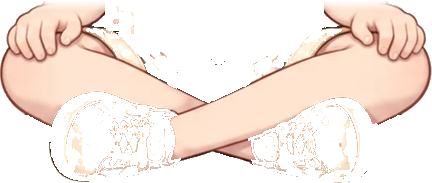
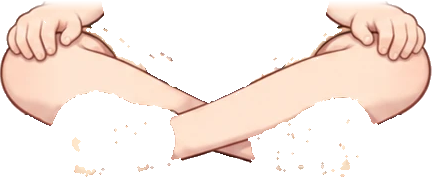
퀴즈나라: 양반다리 정면 여자 원화 연결, 남녀 아래팔 원화
- 여자 정면도 원화 층을 쓴다(다리·손·기본 운동화, SEATED_ART.f).
- 기준 그림의 기본 반바지(데님·크림 바짓단·꽃무늬)를 피부 아래 층으로
  깐다(먼 다리 그림, 색 입히지 않음, 기본 반바지를 입었을 때만).
- 손 그림에 소매 끝부터 아래팔을 포함하고 소매 아래층에 둔다. 위팔은
  서 있을 때 각도를 유지해 소매와 셔츠 사이 틈을 없앴다.
- 잘라내기: 피부 판정 강화(크림 제외), 점 제거, 셔츠 밑단 선 지정.
- AGENTS.md: 상품별 원화 요청은 한 번에 묶어서 드린다.

Claude-Session: https://claude.ai/code/session_01TorvBRE4tH5a5MfFk5YraQ

diff --git a/퀴즈나라/avatar-foundation-skin.js b/퀴즈나라/avatar-foundation-skin.js
@@ -161,9 +161,16 @@
    // Drawn seated legs (pose.seatArt): one picture of both legs in the near
    // leg; the far leg's painting and the drawn shapes are hidden.
    if(!drawn){const A=pose.seatArt.legs,image=part.painting;part.paintFrame.removeAttribute('clip-path');part.contour.style.visibility='hidden';part.shade.style.display='none';
-    if(!i){part.paintFrame.style.display='none';return;}
+    // The far leg shows the reference's own bottom (untinted) under the
+    // skin when the matching basic bottom is worn: the skin picture leaves
+    // its denim, cuffs and prints out.
+    if(!i){const B=pose.seatArt.bottoms[(r.svg.dataset.foundationGarments||'').split('|').find(id=>id.startsWith('bottom:'))];
+     if(!B){part.paintFrame.style.display='none';return;}
+     if(part.paintFrame.style.display){part.paintFrame.style.removeProperty('display');if(!part.paintFrame.getAttribute('style'))part.paintFrame.removeAttribute('style');}
+     if(image.hasAttribute('filter'))image.removeAttribute('filter');if(image.paintedArt!==B){image.setAttribute('href',B.url);image.paintedArt=B;}for(const[k,val]of Object.entries({x:B.rect[0],y:B.rect[1],width:B.rect[2],height:B.rect[3]}))if(image.getAttribute(k)!==String(val))image.setAttribute(k,val);return;}
     if(part.paintFrame.style.display){part.paintFrame.style.removeProperty('display');if(!part.paintFrame.getAttribute('style'))part.paintFrame.removeAttribute('style');}
     if(image.paintedArt!==A){image.setAttribute('href',A.url);image.paintedArt=A;}for(const[k,val]of Object.entries({x:A.rect[0],y:A.rect[1],width:A.rect[2],height:A.rect[3]}))if(image.getAttribute(k)!==String(val))image.setAttribute(k,val);return;}
+   if(!part.painting.hasAttribute('filter'))part.painting.setAttribute('filter',tint);
    // The pooled painting is compared by reference (as the forearm's below):
    // reading the data-URL href back every frame copied the whole string.
    const image=part.painting;if(image.paintedArt!==drawn){if(image.getAttribute('href')!==drawn.url)image.setAttribute('href',drawn.url);image.paintedArt=drawn;}for(const[k,val]of Object.entries({x:points[0][0]+drawn.x,y:points[0][1]+drawn.y,width:drawn.w,height:drawn.h}))if(image.getAttribute(k)!==String(val))image.setAttribute(k,val);
@@ -182,8 +189,12 @@
    const drawnLeg=type==='leg'&&Boolean(p.cuff);if(drawnLeg)part.paintFrame.style.display='none';else if(part.paintFrame.style.display){part.paintFrame.style.removeProperty('display');if(!part.paintFrame.getAttribute('style'))part.paintFrame.removeAttribute('style');}
    part.contour.style.visibility=drawnLeg?'':'hidden';
    if(type==='leg')for(const e of [part.contour,part.foot])if(e){if(drawnLeg){if(!e.dataset.baseFill)e.dataset.baseFill=e.getAttribute('fill');const c=paintedSkin(r.svg.dataset.foundationSkin);if(e.getAttribute('fill')!==c)e.setAttribute('fill',c);}else if(e.dataset.baseFill){e.setAttribute('fill',e.dataset.baseFill);delete e.dataset.baseFill;}}part.shade.style.display=type==='leg'&&pose.floor?'':'none';if(type==='arm'){part.hand.style.display='none';forearmOverlay(r,part,p,i,[def.radii[1]*def.k,def.radii[2]*def.k],(def.end-def.joints[2][1])*def.k,def,points,tint);openHand(r,part,p,i,tint);
+    if(!pose.seatArt&&part.forearmArt&&part.forearmArt.previousSibling!==part.forearm)part.parent.insertBefore(part.forearmArt,part.forearm.nextSibling);
     // Drawn seated hands (pose.seatArt) rest on the knees over the arms.
-    if(pose.seatArt){const A=pose.seatArt.hands[i],e=part.forearmArt;e.style.display='';if(e.paintedArt!==A){e.setAttribute('href',A.url);e.paintedArt=A;}for(const[k,val]of Object.entries({x:A.rect[0],y:A.rect[1],width:A.rect[2],height:A.rect[3]}))if(e.getAttribute(k)!==String(val))e.setAttribute(k,val);}}
+    // The piece holds the forearm from under the sleeve, so it lies below
+    // the sleeve (just over the arm's painting); elsewhere the forearm
+    // painting goes back over everything after the forearm copy.
+    if(pose.seatArt){const A=pose.seatArt.hands[i],e=part.forearmArt;if(e.previousSibling!==part.paintFrame)part.parent.insertBefore(e,part.paintFrame.nextSibling);e.style.display='';if(e.paintedArt!==A){e.setAttribute('href',A.url);e.paintedArt=A;}for(const[k,val]of Object.entries({x:A.rect[0],y:A.rect[1],width:A.rect[2],height:A.rect[3]}))if(e.getAttribute(k)!==String(val))e.setAttribute(k,val);}}
   });}r.svg.dataset.foundationSkinArt='reference-sheet-v1';}
  // A forearm folded toward the viewer (front/back running, jumping, cheering)
  // lies in front of its own sleeve. Run/jump arms (arm.fold) draw their own

diff --git a/퀴즈나라/배포용/avatar-foundation-skin.js b/퀴즈나라/배포용/avatar-foundation-skin.js
@@ -161,9 +161,16 @@
    // Drawn seated legs (pose.seatArt): one picture of both legs in the near
    // leg; the far leg's painting and the drawn shapes are hidden.
    if(!drawn){const A=pose.seatArt.legs,image=part.painting;part.paintFrame.removeAttribute('clip-path');part.contour.style.visibility='hidden';part.shade.style.display='none';
-    if(!i){part.paintFrame.style.display='none';return;}
+    // The far leg shows the reference's own bottom (untinted) under the
+    // skin when the matching basic bottom is worn: the skin picture leaves
+    // its denim, cuffs and prints out.
+    if(!i){const B=pose.seatArt.bottoms[(r.svg.dataset.foundationGarments||'').split('|').find(id=>id.startsWith('bottom:'))];
+     if(!B){part.paintFrame.style.display='none';return;}
+     if(part.paintFrame.style.display){part.paintFrame.style.removeProperty('display');if(!part.paintFrame.getAttribute('style'))part.paintFrame.removeAttribute('style');}
+     if(image.hasAttribute('filter'))image.removeAttribute('filter');if(image.paintedArt!==B){image.setAttribute('href',B.url);image.paintedArt=B;}for(const[k,val]of Object.entries({x:B.rect[0],y:B.rect[1],width:B.rect[2],height:B.rect[3]}))if(image.getAttribute(k)!==String(val))image.setAttribute(k,val);return;}
     if(part.paintFrame.style.display){part.paintFrame.style.removeProperty('display');if(!part.paintFrame.getAttribute('style'))part.paintFrame.removeAttribute('style');}
     if(image.paintedArt!==A){image.setAttribute('href',A.url);image.paintedArt=A;}for(const[k,val]of Object.entries({x:A.rect[0],y:A.rect[1],width:A.rect[2],height:A.rect[3]}))if(image.getAttribute(k)!==String(val))image.setAttribute(k,val);return;}
+   if(!part.painting.hasAttribute('filter'))part.painting.setAttribute('filter',tint);
    // The pooled painting is compared by reference (as the forearm's below):
    // reading the data-URL href back every frame copied the whole string.
    const image=part.painting;if(image.paintedArt!==drawn){if(image.getAttribute('href')!==drawn.url)image.setAttribute('href',drawn.url);image.paintedArt=drawn;}for(const[k,val]of Object.entries({x:points[0][0]+drawn.x,y:points[0][1]+drawn.y,width:drawn.w,height:drawn.h}))if(image.getAttribute(k)!==String(val))image.setAttribute(k,val);
@@ -182,8 +189,12 @@
    const drawnLeg=type==='leg'&&Boolean(p.cuff);if(drawnLeg)part.paintFrame.style.display='none';else if(part.paintFrame.style.display){part.paintFrame.style.removeProperty('display');if(!part.paintFrame.getAttribute('style'))part.paintFrame.removeAttribute('style');}
    part.contour.style.visibility=drawnLeg?'':'hidden';
    if(type==='leg')for(const e of [part.contour,part.foot])if(e){if(drawnLeg){if(!e.dataset.baseFill)e.dataset.baseFill=e.getAttribute('fill');const c=paintedSkin(r.svg.dataset.foundationSkin);if(e.getAttribute('fill')!==c)e.setAttribute('fill',c);}else if(e.dataset.baseFill){e.setAttribute('fill',e.dataset.baseFill);delete e.dataset.baseFill;}}part.shade.style.display=type==='leg'&&pose.floor?'':'none';if(type==='arm'){part.hand.style.display='none';forearmOverlay(r,part,p,i,[def.radii[1]*def.k,def.radii[2]*def.k],(def.end-def.joints[2][1])*def.k,def,points,tint);openHand(r,part,p,i,tint);
+    if(!pose.seatArt&&part.forearmArt&&part.forearmArt.previousSibling!==part.forearm)part.parent.insertBefore(part.forearmArt,part.forearm.nextSibling);
     // Drawn seated hands (pose.seatArt) rest on the knees over the arms.
-    if(pose.seatArt){const A=pose.seatArt.hands[i],e=part.forearmArt;e.style.display='';if(e.paintedArt!==A){e.setAttribute('href',A.url);e.paintedArt=A;}for(const[k,val]of Object.entries({x:A.rect[0],y:A.rect[1],width:A.rect[2],height:A.rect[3]}))if(e.getAttribute(k)!==String(val))e.setAttribute(k,val);}}
+    // The piece holds the forearm from under the sleeve, so it lies below
+    // the sleeve (just over the arm's painting); elsewhere the forearm
+    // painting goes back over everything after the forearm copy.
+    if(pose.seatArt){const A=pose.seatArt.hands[i],e=part.forearmArt;if(e.previousSibling!==part.paintFrame)part.parent.insertBefore(e,part.paintFrame.nextSibling);e.style.display='';if(e.paintedArt!==A){e.setAttribute('href',A.url);e.paintedArt=A;}for(const[k,val]of Object.entries({x:A.rect[0],y:A.rect[1],width:A.rect[2],height:A.rect[3]}))if(e.getAttribute(k)!==String(val))e.setAttribute(k,val);}}
   });}r.svg.dataset.foundationSkinArt='reference-sheet-v1';}
  // A forearm folded toward the viewer (front/back running, jumping, cheering)
  // lies in front of its own sleeve. Run/jump arms (arm.fold) draw their own

diff --git a/퀴즈나라/avatar-foundation.js b/퀴즈나라/avatar-foundation.js
@@ -309,7 +309,7 @@
   // `legs` (skin, tinted: thighs, crossed shins, hands on the knees), `hands`
   // (the same hands over the arms, whose wrists reach `wrist`) and per shoe
   // item the worn shoes (untinted). Back and side views keep the drawn shapes.
-  const SEATED_ART=Object.freeze({m:Object.freeze({legs:Object.freeze({url:'assets/seated/floor-front-m-legs.png',rect:[8.1565, 39.246, 15.6492, 6.7662]}),hands:[Object.freeze({url:'assets/seated/floor-front-m-hand-0.png',rect:[8.0809, 39.246, 4.4226, 2.6082]}),Object.freeze({url:'assets/seated/floor-front-m-hand-1.png',rect:[19.5343, 39.246, 4.4604, 2.6082]})],wrist:[[10.9159, 39.4728], [20.8573, 39.4728]],shoes:Object.freeze({'shoes:sneaker':[Object.freeze({url:'assets/seated/floor-front-m-shoes-sneaker-0.png',rect:[17.1529, 42.8748, 4.9896, 3.1752]}),Object.freeze({url:'assets/seated/floor-front-m-shoes-sneaker-1.png',rect:[9.7063, 42.6102, 4.9518, 3.4398]})]})})});
+  const SEATED_ART=Object.freeze({m:Object.freeze({legs:Object.freeze({url:'assets/seated/floor-front-m-legs.png',rect:[8.1565, 39.246, 15.6492, 6.615]}),hands:[Object.freeze({url:'assets/seated/floor-front-m-hand-0.png',rect:[8.0809, 36.9402, 4.4226, 4.914]}),Object.freeze({url:'assets/seated/floor-front-m-hand-1.png',rect:[19.5343, 36.9402, 4.4604, 4.914]})],wrist:[[10.9159, 39.4728], [20.8573, 39.4728]],bottoms:Object.freeze({'bottom:shorts':Object.freeze({url:'assets/seated/floor-front-m-bottom-shorts.png',rect:[8.1187, 39.246, 15.7248, 6.7662]})}),shoes:Object.freeze({'shoes:sneaker':[Object.freeze({url:'assets/seated/floor-front-m-shoes-sneaker-0.png',rect:[17.1529, 42.8748, 4.9896, 3.1752]}),Object.freeze({url:'assets/seated/floor-front-m-shoes-sneaker-1.png',rect:[9.7063, 42.6102, 4.9518, 3.4398]})]})}),f:Object.freeze({legs:Object.freeze({url:'assets/seated/floor-front-f-legs.png',rect:[8.8504, 39.9927, 14.2992, 5.8587]}),hands:[Object.freeze({url:'assets/seated/floor-front-f-hand-0.png',rect:[8.8504, 37.3778, 3.5748, 4.7664]}),Object.freeze({url:'assets/seated/floor-front-f-hand-1.png',rect:[19.1776, 37.3778, 4.0382, 4.7664]})],wrist:[[11.1343, 40.1913], [20.3361, 40.1913]],bottoms:Object.freeze({'bottom:shorts':Object.freeze({url:'assets/seated/floor-front-f-bottom-shorts.png',rect:[8.8173, 39.9927, 14.3323, 6.0573]})}),shoes:Object.freeze({'shoes:sneaker':[Object.freeze({url:'assets/seated/floor-front-f-shoes-sneaker-0.png',rect:[17.0592, 43.2365, 4.4023, 2.8135]}),Object.freeze({url:'assets/seated/floor-front-f-shoes-sneaker-1.png',rect:[10.4723, 43.0379, 4.3692, 2.979]})]})})});
   const SEATED=Object.freeze({
     // The side view is drawn for reading, as in the user's side reference
     // (round 2: before, the shirt reached the floor, no knee showed and the
@@ -709,8 +709,12 @@
             // Drawn hands (SEATED_ART): the reference's short arm hangs nearly
             // straight from the sleeve to the hand on the knee, so the arm
             // shortens to reach it (as the legs stretch) instead of bending
-            // its elbow out; the elbow keeps a slight outward bow.
-            W=[side*(seatArt.wrist[i][0]-shoulder[0]),seatArt.wrist[i][1]-shoulder[1],0];const f=upperLength/(upperLength+lowerLength);E=[W[0]*f+.25,W[1]*f,0];
+            // its elbow out. The upper arm keeps its standing rest angle, so the
+            // sleeve sits against the shirt as when standing (turned out, it
+            // opened a gap under the girl's sleeve; straight down, it left the
+            // drawn forearm's top uncovered); the drawn forearm hides the turn
+            // at the elbow.
+            W=[side*(seatArt.wrist[i][0]-shoulder[0]),seatArt.wrist[i][1]-shoulder[1],0];const up=sub(SPEC.elbow[i],rest),ul=Math.hypot(...up)||1;E=[side*up[0]*upperLength/ul,up[1]*upperLength/ul,0];
           }else({elbow:E,wrist:W}=ik3([k[0]-C.hand[0]-out,k[1]-C.hand[1]-shoulder[1],k[2]+C.hand[2]-z],upperLength,lowerLength,[1,0,-.6]));
         }else{
           // Upper arm a little forward, forearm forward, in and a little down

diff --git a/퀴즈나라/배포용/avatar-foundation.js b/퀴즈나라/배포용/avatar-foundation.js
@@ -309,7 +309,7 @@
   // `legs` (skin, tinted: thighs, crossed shins, hands on the knees), `hands`
   // (the same hands over the arms, whose wrists reach `wrist`) and per shoe
   // item the worn shoes (untinted). Back and side views keep the drawn shapes.
-  const SEATED_ART=Object.freeze({m:Object.freeze({legs:Object.freeze({url:'assets/seated/floor-front-m-legs.png',rect:[8.1565, 39.246, 15.6492, 6.7662]}),hands:[Object.freeze({url:'assets/seated/floor-front-m-hand-0.png',rect:[8.0809, 39.246, 4.4226, 2.6082]}),Object.freeze({url:'assets/seated/floor-front-m-hand-1.png',rect:[19.5343, 39.246, 4.4604, 2.6082]})],wrist:[[10.9159, 39.4728], [20.8573, 39.4728]],shoes:Object.freeze({'shoes:sneaker':[Object.freeze({url:'assets/seated/floor-front-m-shoes-sneaker-0.png',rect:[17.1529, 42.8748, 4.9896, 3.1752]}),Object.freeze({url:'assets/seated/floor-front-m-shoes-sneaker-1.png',rect:[9.7063, 42.6102, 4.9518, 3.4398]})]})})});
+  const SEATED_ART=Object.freeze({m:Object.freeze({legs:Object.freeze({url:'assets/seated/floor-front-m-legs.png',rect:[8.1565, 39.246, 15.6492, 6.615]}),hands:[Object.freeze({url:'assets/seated/floor-front-m-hand-0.png',rect:[8.0809, 36.9402, 4.4226, 4.914]}),Object.freeze({url:'assets/seated/floor-front-m-hand-1.png',rect:[19.5343, 36.9402, 4.4604, 4.914]})],wrist:[[10.9159, 39.4728], [20.8573, 39.4728]],bottoms:Object.freeze({'bottom:shorts':Object.freeze({url:'assets/seated/floor-front-m-bottom-shorts.png',rect:[8.1187, 39.246, 15.7248, 6.7662]})}),shoes:Object.freeze({'shoes:sneaker':[Object.freeze({url:'assets/seated/floor-front-m-shoes-sneaker-0.png',rect:[17.1529, 42.8748, 4.9896, 3.1752]}),Object.freeze({url:'assets/seated/floor-front-m-shoes-sneaker-1.png',rect:[9.7063, 42.6102, 4.9518, 3.4398]})]})}),f:Object.freeze({legs:Object.freeze({url:'assets/seated/floor-front-f-legs.png',rect:[8.8504, 39.9927, 14.2992, 5.8587]}),hands:[Object.freeze({url:'assets/seated/floor-front-f-hand-0.png',rect:[8.8504, 37.3778, 3.5748, 4.7664]}),Object.freeze({url:'assets/seated/floor-front-f-hand-1.png',rect:[19.1776, 37.3778, 4.0382, 4.7664]})],wrist:[[11.1343, 40.1913], [20.3361, 40.1913]],bottoms:Object.freeze({'bottom:shorts':Object.freeze({url:'assets/seated/floor-front-f-bottom-shorts.png',rect:[8.8173, 39.9927, 14.3323, 6.0573]})}),shoes:Object.freeze({'shoes:sneaker':[Object.freeze({url:'assets/seated/floor-front-f-shoes-sneaker-0.png',rect:[17.0592, 43.2365, 4.4023, 2.8135]}),Object.freeze({url:'assets/seated/floor-front-f-shoes-sneaker-1.png',rect:[10.4723, 43.0379, 4.3692, 2.979]})]})})});
   const SEATED=Object.freeze({
     // The side view is drawn for reading, as in the user's side reference
     // (round 2: before, the shirt reached the floor, no knee showed and the
@@ -709,8 +709,12 @@
             // Drawn hands (SEATED_ART): the reference's short arm hangs nearly
             // straight from the sleeve to the hand on the knee, so the arm
             // shortens to reach it (as the legs stretch) instead of bending
-            // its elbow out; the elbow keeps a slight outward bow.
-            W=[side*(seatArt.wrist[i][0]-shoulder[0]),seatArt.wrist[i][1]-shoulder[1],0];const f=upperLength/(upperLength+lowerLength);E=[W[0]*f+.25,W[1]*f,0];
+            // its elbow out. The upper arm keeps its standing rest angle, so the
+            // sleeve sits against the shirt as when standing (turned out, it
+            // opened a gap under the girl's sleeve; straight down, it left the
+            // drawn forearm's top uncovered); the drawn forearm hides the turn
+            // at the elbow.
+            W=[side*(seatArt.wrist[i][0]-shoulder[0]),seatArt.wrist[i][1]-shoulder[1],0];const up=sub(SPEC.elbow[i],rest),ul=Math.hypot(...up)||1;E=[side*up[0]*upperLength/ul,up[1]*upperLength/ul,0];
           }else({elbow:E,wrist:W}=ik3([k[0]-C.hand[0]-out,k[1]-C.hand[1]-shoulder[1],k[2]+C.hand[2]-z],upperLength,lowerLength,[1,0,-.6]));
         }else{
           // Upper arm a little forward, forearm forward, in and a little down

diff --git a/퀴즈나라/tools/seated-cut.py b/퀴즈나라/tools/seated-cut.py
@@ -21,17 +21,19 @@ from PIL import Image,ImageDraw
 # first, the far leg's), the shin entering each shoe's opening, the cut
 # line just above the hands, the forearms' centres there and the hand boxes.
 FIGURES={
- 'm':dict(src='assets/pose-references/floor-sit-m-chatgpt-2026-10-14.webp',cx=494.5,k=.0378,crop=(270,640,720,852),
+ 'm':dict(src='assets/pose-references/floor-sit-m-chatgpt-2026-10-14.webp',cx=494.5,k=.0378,crop=(270,580,720,852),
   shoes=[[(528,805),(532,782),(548,771),(580,764),(615,763),(640,770),(652,790),(655,815),(647,835),(618,846),(578,846),(548,838),(532,824)],
          [(331,792),(340,768),(360,757),(392,757),(425,764),(447,772),(458,790),(458,812),(452,830),(425,842),(385,846),(350,840),(334,822)]],
   openings=[[(520,740),(560,740),(560,800),(520,840)],[(430,740),(470,740),(470,830),(430,790)]],
-  wrist=665,forearms=[360,623],hands=[(285,402),(588,706)],handBottom=734),
+  wrist=665,forearms=[360,623],hands=[(285,402),(588,706)],handBottom=734,armTop=618,cuffLine=652,lift=14,
+  sleeves=[[(352,612),(362,616),(376,628),(389,632),(398,620)],[(588,617),(600,635),(614,628),(627,617),(632,612)]]),
  # Girl: 327 px runtime head over the bob's 510 px.
- 'f':dict(src='assets/pose-references/floor-sit-f-chatgpt-2026-10-14.webp',cx=474,k=.0331,crop=(205,610,745,835),
+ 'f':dict(src='assets/pose-references/floor-sit-f-chatgpt-2026-10-14.webp',cx=474,k=.0331,crop=(205,550,745,835),
   shoes=[[(507,790),(512,770),(530,758),(570,748),(605,742),(625,750),(635,775),(632,800),(615,820),(580,826),(540,822),(515,810)],
          [(310,780),(318,750),(345,737),(380,738),(420,752),(437,762),(440,790),(432,808),(400,820),(355,823),(322,815)]],
   openings=[[(490,735),(532,735),(532,800),(490,820)],[(425,740),(462,740),(462,815),(425,800)]],
-  wrist=643,forearms=[327,605],hands=[(258,360),(572,692)],handBottom=708),
+  wrist=643,forearms=[327,605],armTop=586,cuffLine=622,lift=22,
+  sleeves=[[(290,0),(370,0)],[(570,0),(650,0)]],hem=[(205,640),(358,640),(366,676),(420,693),(470,699),(520,693),(578,676),(588,640),(745,640)],hands=[(258,366),(570,692)],handBottom=708),
 }
 sex,out=sys.argv[1],sys.argv[2];C=FIGURES[sex];src=C['src']
 im=np.asarray(Image.open(src).convert('RGB')).astype(int)
@@ -56,33 +58,81 @@ def poly(pts):
 # The two worn shoes (reference pixels), less the shin entering each opening.
 shoeR,shoeL=poly(C['shoes'][0]),poly(C['shoes'][1])
 skinish=(r>200)&(r-b>25)&(r-b<95)&(g-b<45)&(r>=g)
-# Skin is pink: cream cuffs and collars (g-b near 40) and pale or yellow
+# Skin is pink: cream cuffs and collars (r-g near 13, skin 25 and more) and pale or yellow
 # prints stay out of the tinted layer.
-skintone=(r-b>25)&(g-b<=30)&(r>=g)
+skintone=(r-b>25)&(g-b<=30)&(r-g>=19)
 # A 3 px margin takes the shoe's soft outline; skin there stays skin.
 shoeL=(shoeL|grow(shoeL,3)&~skinish)&fg;shoeR=(shoeR|grow(shoeR,3)&~skinish)&fg
 shoeR&=~(skinish&poly(C['openings'][0]));shoeL&=~(skinish&poly(C['openings'][1]))
 # Only below the shirt (its lowest green row in each column, upper rows only).
-top=shirt&(rows<740-y0);gy=np.where(top.any(0),(top*rows).max(0),-1);below=rows>gy[None,:]+2
+if 'hem' in C:
+    # The shirt's lower edge drawn as a polyline (prints and petals on the
+    # shirt defeat the colour test).
+    hx,hy=zip(*C['hem']);below=rows>(np.interp(np.arange(x0,x1),hx,hy)-y0)[None,:]
+else:
+    top=shirt&(rows<740-y0);gy=np.where(top.any(0),(top*rows).max(0),-1);below=rows>gy[None,:]+2
 WRIST=C['wrist']
 # Skin runs on under the shoes' edges (the shoe layers lie over it), so no
 # seam opens along the shoe outline.
 skin=fg&~(mn>232)&skintone&~((shoeL|shoeR)&~skinish)&~shirt&~denim&below&(rows>=WRIST-y0)
+# Drop specks (a print's or cuff's edge passing as skin): opening by a cross.
+def shrink(m):
+    d=m.copy();d[1:]&=m[:-1];d[:-1]&=m[1:];d[:,1:]&=m[:,:-1];d[:,:-1]&=m[:,1:];return d
+skin&=grow(shrink(skin),1)
+# The bottom the reference wears (denim, rolled cuffs, prints) where the skin
+# layer has none: drawn under the skin for the matching basic bottom.
+# White pockets between the arms and the shirt, seeded just under the cut.
+cut=white&(rows>=WRIST-y0)&(rows<WRIST-y0+25)
+while True:
+    d=grow(cut,1)&white
+    if (d==cut).all():break
+    cut=d
+bottom=fg&~cut&below&(rows>=WRIST-y0)&~skin&~shoeL&~shoeR&~(shirt&~below)
 # The arms' painted forearms come down to `wrist`: the cut's top rows fade in
 # over FADE_PX so the hands meet them without a straight edge.
 FADE_PX=10;FADE=np.clip((rows-(WRIST-y0))/FADE_PX,0,1)*np.ones((1,x1-x0));FADE=np.round(FADE*255).astype(np.uint8)
 floor_px=y0+int(np.where((shoeL|shoeR).any(1))[0].max())+1
 U=lambda px,py:[round(16+(px-CX)*K,4),round(FLOOR-(floor_px-py)*K,4)]
-def save(name,mask,box=None):
+def save(name,mask,box=None,src=None,alpha=None):
     if box is None:ys,xs=np.where(mask);box=(x0+xs.min(),y0+ys.min(),x0+xs.max()+1,y0+ys.max()+1)
     bx0,by0,bx1,by1=box;m=mask[by0-y0:by1-y0,bx0-x0:bx1-x0]
-    o=np.zeros(m.shape+(4,),np.uint8);o[...,:3]=a[by0-y0:by1-y0,bx0-x0:bx1-x0]*m[...,None];o[...,3]=m*FADE[by0-y0:by1-y0,bx0-x0:bx1-x0]
+    A=a if src is None else src;F=FADE if alpha is None else alpha
+    o=np.zeros(m.shape+(4,),np.uint8);o[...,:3]=A[by0-y0:by1-y0,bx0-x0:bx1-x0]*m[...,None];o[...,3]=m*F[by0-y0:by1-y0,bx0-x0:bx1-x0]
     Image.fromarray(o).save(f'{out}/{name}.png',optimize=True)
     p,q=U(bx0,by0),U(bx1,by1);return[p[0],p[1],round(q[0]-p[0],4),round(q[1]-p[1],4)]
+# Hands with their forearms, from just under each sleeve cuff (skin only, so
+# the cuff stays out) to the fingers, unfaded. The runtime sleeve sits up to
+# `lift` px higher than the reference's: forearm columns inside the runtime
+# cuff's span (`sleeves`, reference x; y unused) are extended upward by
+# repeating one row below the reference cuff's shadow, so the forearm runs on
+# under the sleeve (the piece is drawn below the sleeve). Columns outside it
+# lose their rows above the sample row (the cuff's shadow showed beside the
+# boy's sleeve).
+ARM=fg&~(mn>232)&skintone&~shirt&~denim&(rows>=C['armTop']-y0)
+ARM&=grow(shrink(ARM),1)
+armRGB=a.copy();armM=ARM.copy();L=C['lift']
+for (h0,h1),fx,sl in zip(C['hands'],C['forearms'],C['sleeves']):
+    sx,sy=zip(*sl)
+    js=[j for j in range(h0-x0,h1-x0) if ARM[:,j].any() and np.argmax(ARM[:,j])<=C['cuffLine']-y0]
+    if not js:continue
+    # One sample row per forearm, below the lowest point of the reference
+    # cuff's shadow, so the extension is the forearm's own cross-section:
+    # only the run of that row through the forearm's centre is extended;
+    # other columns lose what lies above it (slivers beside the arm).
+    s=max(np.argmax(ARM[:,j]) for j in js)+7;c=fx-x0;lo=hi=c
+    while lo>0 and ARM[s,lo-1]:lo-=1
+    while hi<x1-x0-1 and ARM[s,hi+1]:hi+=1
+    for j in js:
+        top=np.argmax(ARM[:,j])
+        if not lo<=j<=hi:armM[:s,j]=False
+        elif sx[0]<=j+x0<=sx[-1]:armRGB[top-L:s,j]=a[s,j];armM[top-L:s,j]=True
+        else:armM[:s,j]=False
+ONE=np.full((y1-y0,x1-x0),255,np.uint8)
 n=f'floor-front-{sex}'
 meta={'source':src.split('/')[-1],'unit':K,'legs':save(n+'-legs',skin,None),
- 'hands':[save(f'{n}-hand-{i}',skin,(h[0],WRIST,h[1],C['handBottom'])) for i,h in enumerate(C['hands'])],
+ 'hands':[save(f'{n}-hand-{i}',armM,(h[0],C['armTop']-L,h[1],C['handBottom']),armRGB,ONE) for i,h in enumerate(C['hands'])],
  'wrist':[U(x,WRIST+6) for x in C['forearms']],
+ 'bottoms':{'bottom:shorts':save(n+'-bottom-shorts',bottom)},
  'shoes':{'shoes:sneaker':[save(n+'-shoes-sneaker-0',shoeR),save(n+'-shoes-sneaker-1',shoeL)]}}
 json.dump(meta,open(f'{out}/{n}.json','w'),ensure_ascii=False,indent=1)
 print(json.dumps(meta))

diff --git a/퀴즈나라/AGENTS.md b/퀴즈나라/AGENTS.md
@@ -17,6 +17,7 @@
 - 작업 브랜치 이름을 **`quiz-avatar-shop`**으로 바꿨다(이전 `quiz-forest-shop-avatar-8mo1e1`, "forest랑은 관련 없으니까"). 퀴즈나라 작업은 이 브랜치에 올리고, 세션 안내에 옛 이름이 나와도 이 결정을 따른다.
 - 옆모습 양반다리는 코드로 그린 기준 그림이 세 번 불합격해 **새 세션에서 방식부터 다시 계획**한다(사용자 선택). 기록은 [인계](인계.md).
 - **원본 그림에 없는 모양(앞으로 짧아지는 모습, 돌아간 신발, 짚거나 잡는 손 등)은 수치 조정 전에 바로 원화를 요청한다**(사용자 지시 2026-10-14). 그림 검수에서 두 번 실패하면 수치 조정을 멈춘다. 자세한 규칙은 [아바타 제작 기준](아바타-제작기준.md) '원화가 필요한 모양은 바로 요청한다'.
+- 상품별 원화 요청은 **필요한 것을 모아 한 번에 묶어서** 드린다(사용자 요청 2026-10-14). 요청문 하나에 첨부 그림 목록, 상품별 문장, 실패 시 다시 요청할 문장을 함께 넣는다.
 - 양반다리 기준 그림은 ChatGPT로 받는다(`assets/pose-references/floor-sit-m-chatgpt-2026-10-14.webp`, 남자 정면·옆). 사용자가 앞모습 아빠다리 신발이 "신고 있지 않고 양옆에 놓여 있다"고 지적했다. 원인은 2등신 다리 길이(허벅지 3.8u·정강이 2.2u, 신발 길이 약 8u)로는 정강이 교차가 그려지지 않는 것이다. ChatGPT 그림은 앉은 다리를 2배 넘게 길게 그렸다. **바닥 앉기(양반다리)에서만 다리를 기준 그림 길이로 늘려 그린다**(사용자 결정). 서기·걷기·책상 앉기 등 다른 동작의 뼈 길이 고정은 그대로다. 앉은 모습은 기준 그림과 같은 배율로 겹친 비교판으로 맞추고, 남자 앞모습부터 통과시킨 뒤 넓힌다.
 
 2026-10-13
